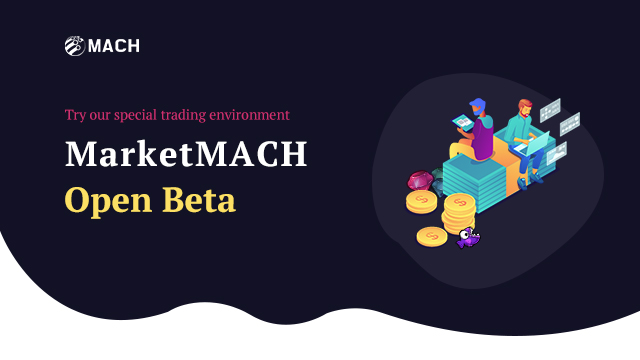
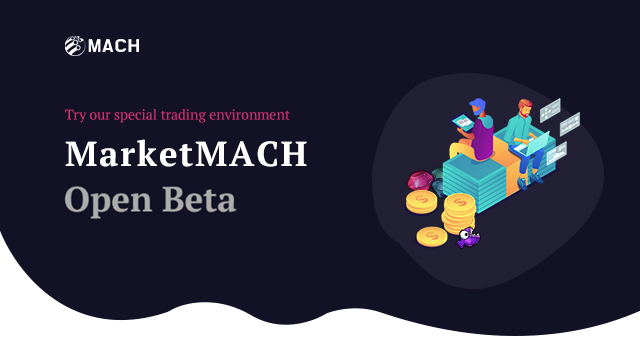
[메인] 비주얼이미지 로고삭제, 지갑관리 지갑 아이콘 변경

Changed region(s): [[0.0938, 0.5194, 0.375, 0.6111]]

diff --git a/views/v2/myPage/walletinfo.html b/views/v2/myPage/walletinfo.html
@@ -106,7 +106,7 @@
                                         '<em class="fc2">'+amount+'<span>'+currency_code+'</span></em>' + 
                                     '</td>';
                         } else {
-                            result += '<td><img src="/static/img/symbol/symbol_mach.png" alt="mach"></td>';
+                            result += '<td><img src="/static/img/symbol/symbol_mach_wallet.png" alt="mach wallet"></td>';
                             result += '<td>'+category.text+'</td>';
                             result +=   '<td class="td_exchange_coin">' + 
                                         '<em class="fc2">'+amount+'<span>'+currency_code+'</span></em>' + 

diff --git a/views/v2/myPage/walletconnect.html b/views/v2/myPage/walletconnect.html
@@ -29,7 +29,7 @@
                 disconnect();
             });
 
-            //_PopupUI.closeAfterClick();
+            _PopupUI.closeAfterClick();
         });
 
         function setAuthCode() {
